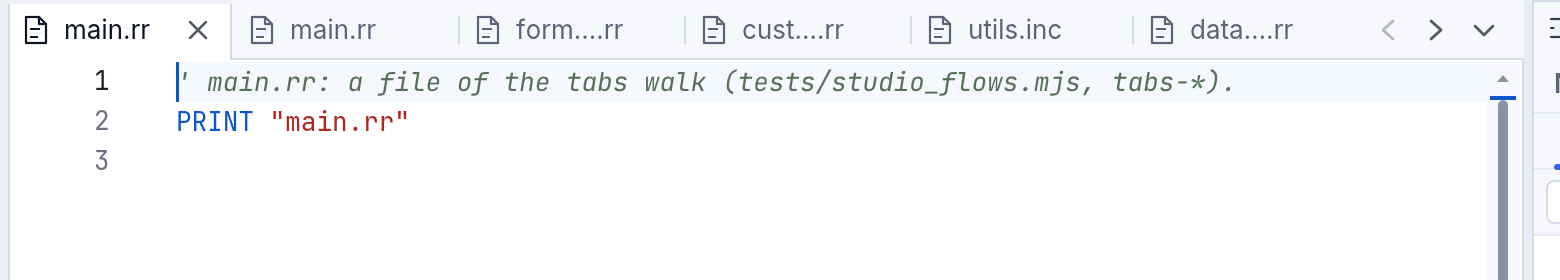
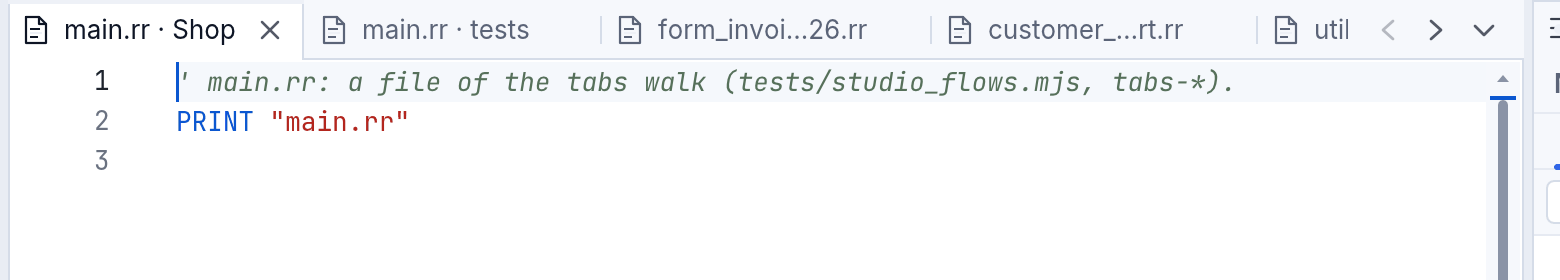
NOTIFY: document tabs keep eight characters of a cut name and the folder of a duplicate
The lead's three tab fixes. A tab's least width is now measured for each tab at the font it
is drawn in (no fixed 112 px): the icon, the first eight characters of the name, one "…", the
last two characters of the name with its extension, the close button; a name shorter than
that stays whole, and a name with its folder ("main.rr · tests") keeps the folder in its
least, so two files of one name always read apart. The cut never stands the "…" against the
extension's dot ("form_invoi…26.rr", not "form….rr"). Fewer tabs fit before the arrows.
A tab-strip squeeze takes a floor for each tab; the guide, the manual (EN and ES), the
changelog and the manual's pictures follow; a unit test cuts twenty-two names in a full
strip and checks the eight characters, the extension, the dot and the folders.

Changed region(s): [[0.0923, 0.0571, 0.5538, 0.1714], [0.5846, 0.0571, 0.8615, 0.1714], [0.1538, 0.2, 0.1846, 0.2286]]

diff --git a/crates/rapidr-value/src/dock/look.rs b/crates/rapidr-value/src/dock/look.rs
@@ -253,26 +253,99 @@ fn fitted(s: &str, font: &Font, w: i64) -> String {
     String::new()
 }
 
-/// A document tab's name in `room` pixels: whole; else a long name cut in its
-/// middle, so its start and its extension stay (a name `main.rr · tests`, the
-/// folder a second file of that name adds, keeps `main.rr` whole and cuts the
-/// folder after it: the tooltip and a screen reader have all of it).
+/// The least of a name's start a document tab keeps when it is cut (the guide:
+/// eight characters), and how many of the end of its base name stay before the
+/// extension, so the "…" never stands against the extension's dot.
+pub const TAB_HEAD: usize = 8;
+const TAB_TAIL: usize = 2;
+/// The longest folder a tab shows whole at its least.
+const TAB_FOLDER: usize = 8;
+
+/// A name's base and its extension (".rr"; none when there is none).
+fn split_ext(s: &str) -> (&str, &str) {
+    match s.rfind('.') {
+        Some(i) if i > 0 && s.len() - i <= 6 && !s[i..].contains(' ') => (&s[..i], &s[i..]),
+        _ => (s, ""),
+    }
+}
+
+/// `name` cut to `head` characters of its start, "…", the end of its base
+/// name and its extension: `form_inv…26.rr`. Whole when cutting would not
+/// shorten it.
+fn cut_name(name: &str, head: usize) -> String {
+    let (base, ext) = split_ext(name);
+    let chars: Vec<char> = base.chars().collect();
+    if chars.len() <= head + TAB_TAIL {
+        return name.to_string();
+    }
+    let start: String = chars[..head].iter().collect();
+    let end: String = chars[chars.len() - TAB_TAIL..].iter().collect();
+    format!("{}\u{2026}{end}{ext}", start.trim_end())
+}
+
+/// A folder as short as a tab may show it at its least.
+fn short_folder(folder: &str) -> String {
+    let chars: Vec<char> = folder.chars().collect();
+    if chars.len() <= TAB_FOLDER {
+        return folder.to_string();
+    }
+    format!("{}\u{2026}", chars[..TAB_FOLDER - 1].iter().collect::<String>().trim_end())
+}
+
+/// The least text a document tab shows (its tab is never narrower than this
+/// takes, measured): the first eight characters of the name, "…", the end of
+/// its name with the extension; for a name with its folder (`main.rr · tests`)
+/// the folder as well, so two files of one name always read apart.
+pub fn min_tab_title(title: &str) -> String {
+    match title.split_once(" \u{b7} ") {
+        Some((name, folder)) => format!("{} \u{b7} {}", cut_name(name, TAB_HEAD), short_folder(folder)),
+        None => cut_name(title, TAB_HEAD),
+    }
+}
+
+/// A document tab's name in `room` pixels: whole; else the name cut in its
+/// middle — its start (eight characters at least, with the room the tab's
+/// least width gives), "…", the end of its name and its extension. A name
+/// with its folder (`main.rr · tests`) keeps the name and as much of the
+/// folder as fits; the tooltip and a screen reader have all of it.
 pub fn tab_title(title: &str, font: &Font, room: i64) -> String {
     use crate::objects::text::text_size;
-    if let Some((name, folder)) = title.split_once(" \u{b7} ") {
-        let sep = " \u{b7} ";
-        let used = text_size(name, font).0 + text_size(sep, font).0;
-        if used + text_size("\u{2026}", font).0 + 6 <= room {
-            let f = fitted(folder, font, room - used);
-            if f.len() > '\u{2026}'.len_utf8() {
-                return format!("{name}{sep}{f}");
+    let width = |s: &str| text_size(s, font).0;
+    if width(title) <= room {
+        return title.to_string();
+    }
+    let sep = " \u{b7} ";
+    if let Some((name, folder)) = title.split_once(sep) {
+        // (the name as long as it can be with the folder at its shortest; else
+        // the folder cut as far as it must)
+        for floor in [width(&short_folder(folder)), width("\u{2026}") + 6] {
+            for head in (1..=name.chars().count()).rev() {
+                let n = cut_name(name, head);
+                let used = width(&n) + width(sep);
+                if used + floor <= room {
+                    let f = fitted(folder, font, room - used);
+                    if f.chars().count() > 1 {
+                        return format!("{n}{sep}{f}");
+                    }
+                }
             }
         }
-        if text_size(name, font).0 <= room {
-            return name.to_string();
+        return cut_name_fitting(name, font, room);
+    }
+    cut_name_fitting(title, font, room)
+}
+
+/// `name` cut as little as `room` allows (down to one character of its start).
+fn cut_name_fitting(name: &str, font: &Font, room: i64) -> String {
+    use crate::objects::text::text_size;
+    let (base, _) = split_ext(name);
+    for head in (1..=base.chars().count()).rev() {
+        let n = cut_name(name, head);
+        if text_size(&n, font).0 <= room {
+            return n;
         }
     }
-    crate::panels::notify::middle(title, font, room)
+    crate::panels::notify::middle(name, font, room)
 }
 
 /// The chrome's font: the dock manager's.

diff --git a/crates/rapidr-value/src/dock/geometry.rs b/crates/rapidr-value/src/dock/geometry.rs
@@ -28,10 +28,13 @@ pub const SWITCH_H: i64 = 22;
 pub const SWITCH_SPLIT: i64 = 30;
 /// The least a tab shrinks to when a strip is full.
 pub const MIN_TAB: i64 = 64;
-/// The least a document's tab is: its icon, at least eight characters of its
-/// name and its close button. Narrower and a name would be gone, so the
-/// strip scrolls instead (docs/design-guidelines.md, "Tabs").
-pub const MIN_DOC_TAB: i64 = 112;
+/// The least a document's tab is, measured for each (`doc_group`): its icon,
+/// at least eight characters of its name (the whole name when it is shorter),
+/// "…", the end of its name with the extension, and its close button — at the
+/// font it is drawn in. Narrower and a name would be gone, so the strip
+/// scrolls instead (docs/design-guidelines.md, "Tabs"). This is only the
+/// floor of a tab with no name: the width of the one icon and its close button.
+pub const MIN_DOC_TAB: i64 = 64;
 /// A document strip's scroll arrows and its list of open tabs: 24 square
 /// (WCAG 2.5.8).
 pub const TAB_BTN: i64 = 24;
@@ -278,6 +281,12 @@ fn tab_width(title: &str, font: &Font, icon: bool, close: bool, pad: i64) -> i64
 /// trimmed to one width (a short name is never cut for a long one's sake),
 /// none under `floor`.
 pub fn squeeze(want: &[i64], room: i64, give: i64, floor: i64) -> Vec<i64> {
+    squeeze_with(want, room, give, &vec![floor; want.len()])
+}
+
+/// [`squeeze`] with a floor of its own for each tab (a tab that has less to
+/// show can go narrower).
+pub fn squeeze_with(want: &[i64], room: i64, give: i64, floors: &[i64]) -> Vec<i64> {
     let n = want.len() as i64;
     let total: i64 = want.iter().sum();
     if n == 0 || total <= room {
@@ -288,18 +297,19 @@ pub fn squeeze(want: &[i64], room: i64, give: i64, floor: i64) -> Vec<i64> {
     if total - take * n <= room {
         return w;
     }
-    let kept = |x: i64, cap: i64| x.min(cap).max(floor.min(x));
-    let (mut lo, mut hi) = (floor, w.iter().copied().max().unwrap_or(floor));
+    let floor_of = |i: usize| floors.get(i).copied().unwrap_or(0);
+    let kept = |i: usize, x: i64, cap: i64| x.min(cap).max(floor_of(i).min(x));
+    let (mut lo, mut hi) = (floors.iter().copied().min().unwrap_or(0), w.iter().copied().max().unwrap_or(0));
     while lo < hi {
         let mid = (lo + hi + 1) / 2;
-        if w.iter().map(|&x| kept(x, mid)).sum::<i64>() <= room {
+        if w.iter().enumerate().map(|(i, &x)| kept(i, x, mid)).sum::<i64>() <= room {
             lo = mid;
         } else {
             hi = mid - 1;
         }
     }
-    for x in &mut w {
-        *x = kept(*x, lo);
+    for (i, x) in w.iter_mut().enumerate() {
+        *x = kept(i, *x, lo);
     }
     w
 }
@@ -493,12 +503,18 @@ pub fn doc_group(docs: &[String], active: usize, rect: Rect, path: Vec<usize>, t
     let n = docs.len() as i64;
     let room = (right - gx).max(0);
     let want: Vec<i64> = docs.iter().map(|p| tab_width(&titles.title(p), font, !titles.icon(p).is_empty(), true, 12).clamp(MIN_DOC_TAB, 260)).collect();
+    // (each tab's least: its name cut to what the guide keeps, measured)
+    let floors: Vec<i64> = docs
+        .iter()
+        .zip(&want)
+        .map(|(p, w)| tab_width(&super::look::min_tab_title(&titles.title(p)), font, !titles.icon(p).is_empty(), true, 12).max(MIN_DOC_TAB).min(*w))
+        .collect();
     // (the list of open tabs at the right end, from two tabs: 24 square and
     // a gap; the arrows left of it once the tabs don't all fit)
     let list_room = if docs.len() >= 2 { TAB_BTN + 6 } else { 0 };
     // (too many to fit — each tab's pixel of gap counted: the padding goes
     // first, then the widest tabs are trimmed alike, none under MIN_DOC_TAB)
-    let layout_for = |vw: i64| squeeze(&want, vw - n, DOC_GIVE, MIN_DOC_TAB);
+    let layout_for = |vw: i64| squeeze_with(&want, vw - n, DOC_GIVE, &floors);
     let mut vw = room - list_room;
     let mut widths = layout_for(vw);
     let overflow = widths.iter().sum::<i64>() + n > vw;

diff --git a/crates/rapidr-value/src/dock/tab_tests.rs b/crates/rapidr-value/src/dock/tab_tests.rs
@@ -1,5 +1,6 @@
 //! Document tabs keep their names (lane NOTIFY; docs/design-guidelines.md,
-//! "Tabs"): never narrower than 112 pixels, a long name cut in its middle,
+//! "Tabs"): never narrower than their least (eight characters of the name and
+//! its end, measured), a long name cut in its middle,
 //! a strip that scrolls with arrows, the shown tab always in view, a list
 //! of every open tab.
 
@@ -41,7 +42,7 @@ fn a_few_tabs_fit_with_their_names_and_the_list_button() {
 }
 
 #[test]
-fn seventeen_tabs_scroll_and_none_is_narrower_than_112() {
+fn seventeen_tabs_scroll_and_none_is_narrower_than_the_floor() {
     let mut m = many(17);
     let g = m.geometry().clone();
     let gr = &g.documents.as_ref().unwrap().groups[0];
@@ -115,4 +116,50 @@ fn a_long_name_is_cut_in_the_middle_and_keeps_its_extension() {
     let cut = crate::panels::notify::middle("form_invoices_and_orders_2026.rr", &f, 60);
     assert!(cut.contains('…') && cut.ends_with(".rr") && cut.starts_with("form"), "{cut}");
     assert_eq!(crate::panels::notify::middle("main.rr", &f, 200), "main.rr");
+}
+
+#[test]
+fn a_cut_name_keeps_eight_characters_the_end_of_its_name_and_a_folder_for_a_duplicate() {
+    use super::look::{min_tab_title, tab_title};
+    let font = Font::default();
+    let names = [
+        "main.rr \u{b7} Shop",
+        "main.rr \u{b7} tests",
+        "form_invoices_and_orders_2026.rr",
+        "customer_statements_report.rr",
+        "utils.inc",
+        "database.rr",
+        "invoice_totals.rr",
+        "stock_levels_by_warehouse.rr",
+        "window_layout_and_menus.rr",
+        "data_import_wizard.rr",
+        "notes.txt",
+    ];
+    let mut m = Manager::default();
+    m.resize((1280, 720), &font);
+    m.layout.mode = DocumentMode::Tabs;
+    m.add_pane("Explorer", "Explorer", "left", "explorer");
+    for (i, n) in names.iter().chain(names.iter()).enumerate() {
+        m.add_pane(&format!("Doc{i}"), n, "documents", "code");
+    }
+    m.layout.select("doc0");
+    m.touch();
+    let g = m.geometry().clone();
+    let gr = &g.documents.as_ref().unwrap().groups[0];
+    assert!(gr.arrows.is_some(), "the tabs don't all fit: they scroll");
+    for (t, title) in gr.tabs.iter().zip(names.iter().chain(names.iter())) {
+        let room = t.text.1 - t.text.0;
+        let shown = tab_title(title, &font, room);
+        assert!(!shown.contains("\u{2026}.") && !shown.contains("...."), "the ellipsis stands against a dot: {shown} ({title})");
+        if title.contains(" \u{b7} ") {
+            assert!(shown.contains(" \u{b7} "), "a duplicate's folder is kept: {shown} ({title}), room {room}");
+        } else if shown != *title {
+            let head = shown.split('\u{2026}').next().unwrap().chars().count();
+            assert!(head >= 8, "a cut name keeps eight characters: {shown} ({title}), room {room}");
+            assert!(shown.ends_with(&title[title.rfind('.').unwrap()..]), "its extension stays: {shown}");
+        }
+        // (the least text is what the tab's least width was measured for)
+        let least = min_tab_title(title);
+        assert!(shown.chars().count() >= least.chars().count().min(title.chars().count()), "{shown} shorter than {least}");
+    }
 }

diff --git a/CHANGELOG.md b/CHANGELOG.md
@@ -10,7 +10,7 @@ project uses [Semantic Versioning](https://semver.org/). Planned work lives in
 ### Added
 - **Notifications: `RNotify`, `RNotifyBar` and a Notifications section in the design guide** ([the manual](docs/manual/notifications.md), [docs/design-guidelines.md](docs/design-guidelines.md#notifications), [docs/research/notifications.md](docs/research/notifications.md)): three levels, each its own size — a **toast** (something happened, nothing to decide: a card in a corner, 360 px wide, an icon, one or two lines, up to two action links, a close button; three at most, the same `Key` replaces the toast instead of piling up, it stays 3 s and 80 ms a character, 2 s more with an action, 5 to 20 s, an error until closed, and the time stands still while the mouse or the keyboard is on it; a screen reader says it once, politely), a **question's strip** (one slim line across the top of what it asks about, compact buttons at the right end, announced once, assertively) and the **history** behind a bell (every message with its time and its action again, an action that can no longer work greyed with the reason). `RNotify` (`Show`, `Update`, `Close`, `Press`, `Retire`, `SetArea`, `ShowHistory`, `UnseenCount`, `Text(i)` / `Kind(i)` / `HistoryText(i)` for RAI and AI apps, `OnAction`, `OnClosed`, `OnUnseenChange`; `Position`, `MaxVisible`, `Timeout`, `TimeScale`, `Margin`) is a see-through overlay that takes the mouse only where a toast is; `RNotifyBar` (`Ask`, `OnChoose`, `OnEscape`) docks like a panel. Both are drawn by the UI kernel in the program's own look, on the desktop and the web, in light, dark and high contrast. New example `examples/gui/notify.rr`; `RCommandPalette.ShowAt`, `RDockManager.DocumentLeft` / `DocumentTop` / `DocumentWidth` / `DocumentHeight`, `OnDocumentList` and the `np…` position constants.
 - **RapidR Studio says things the right size** (NOTIFY): the huge card that said *5 files were updated outside Studio*, with its big buttons, is gone. A file reloaded from disk is one toast naming the files — *12 files were reloaded: greet.rr, main.rr, part1.rr +9* — with **Show** (a searchable list); a file changed on disk under unsaved edits is a one-line strip on that editor only — *main.rr changed on disk while you were editing it.* with Compare, Use Disk Version and Keep Mine —, and the status bar no longer repeats either. The **bell** at the status bar's right end counts what you have not looked at and opens the history (Ctrl+Shift+N, View > Notifications); Tools > Settings > General > **Notifications stay** makes toasts stay as long as their words need, longer, or until you close them; F6 reaches the strip and the toasts, Escape closes one. The same move for the other bars: **deleting a chat** says so in a toast with Undo (greyed in the history once another chat is deleted), **the assistant's new program** is a toast with Run It and Undo (Run Anyway and Ask It to Fix with errors left; the keyboard is on its first button, so Enter still runs it), and **the crash report offer** is one slim line under the tool bar, an RNotifyBar, instead of a card 84 px tall; the banner's *What Did It Do?* is the chat's own cards.
-- **Document tabs keep their names** (NOTIFY): never icons only — at least 112 px wide, a long name cut in its middle so its start and its extension stay (*form….rr*), two files named alike show their folders (*main.rr · tests*); when the tabs don't all fit the strip scrolls (two arrows, the wheel, the shown tab always in view) and **Open Tabs**, at its right end, lists every open file in a searchable card.
+- **Document tabs keep their names** (NOTIFY): never icons only — a long name cut in its middle so its first eight characters and its extension stay (*form_inv…26.rr*; a tab is never narrower than that takes, measured), two files named alike show their folders (*main.rr · tests*); when the tabs don't all fit the strip scrolls (two arrows, the wheel, the shown tab always in view) and **Open Tabs**, at its right end, lists every open file in a searchable card.
 - **Right-click menus in the rest of RapidR Studio** (CONTEXT-MENUS 2b, [the manual](docs/manual/right-click-menus.md)): a problem (Go to Problem, Quick Fix..., Explain This Problem, Copy All Problems, Ask RAI), a line of output (**Go to main.rr, Line 12** when it names a place, Copy, Copy Line, Copy All, Select All, Wrap Long Lines, Clear), Immediate, Variables and Watch while paused (Set Value..., Copy Value, Copy Expression, View Text..., Add / Remove Watch), Call Stack (Go to This Call), Breakpoints (Go to, Edit Condition..., Disable / Enable, Remove, Delete All), Help (Back, Forward, Copy, Select All, Open in the Browser; a code example's Try It, Copy Code, Insert at the Cursor), the status bar (Copy Message; the project's Reveal, Project Options..., Versions; Ln, Col's Go to Line...; AI apps; School Lock), a pane's tab (Close Pane, Float / Dock, Reset Layout), a recent project on the Welcome page (Open, Copy Path, Reveal, Remove from Recent) and the Toolbox (Add to the Form, Help: RButton, Open an Example, Ask RAI How to Use It; a group's Collapse All, Expand All) — all by the mouse and by Shift+F10 / the Menu key, from the one command table. The Output, Variables, Watch, Call Stack and Breakpoints panes' own menus are gone: one implementation. Also: the Project tree's **Compare With ▸** (the disk's version, the last version, another file) and **Delete File...** (asked first, to the system's Trash, never the main file or a file outside the project's folder); **on a problem in the code, its fix first** ("Change to Caption", bold), then Quick Fix... and Explain This Problem; **Help: RButton (F1)** in the designer's and the Toolbox's menus; the Assistant's chats **grouped by Today / Yesterday / Earlier**, **renamed in the row itself** (the rename strip is gone) and **Copy as Markdown**; **a greyed item says why in a tooltip** beside the menu (screen readers read it already).
 - **`MOVETOTRASH(Path$)`** (RapidR's): a file or folder to the system's Trash — macOS' Trash, Windows' Recycle Bin, the desktop's Trash on Linux (the freedesktop.org specification) —, where it can be put back; True when it went. The same in `rapidr run`, interpreted and native builds; a browser has no Trash and says so with a run-time error. No new dependency. Example [examples/basics/trash.rr](examples/basics/trash.rr), [the manual](docs/manual/language.md#to-the-trash-movetotrash).
 - **Components for these menus** (RapidR's, additive): `RTreeView.ContextIndex` (a right click doesn't select), `RListBox.Heading(i)` (heading rows: never selected, skipped by the keys, a screen reader's heading), `RListBox.EditItem` / `OnEdited` (an item's editor in place), `RToolbox.ContextKind`, `RDockManager.ContextPane` and `DockBack`, `ROutputConsole.PlaceFile` / `PlaceLine`, `RMarkdownView.ContextCode`, `RCodeEditor.ProblemAt` / `FixAt` / `ApplyFixAt`; desktop and web, in the registry with their Spanish docs.

diff --git a/docs/design-guidelines.md b/docs/design-guidelines.md
@@ -202,8 +202,8 @@ Where Studio's messages go: files reloaded, copied, a build finished, a version 
 - **Selected tab:** the accent underline (2 px) and the text in the normal colour; the others dim. No box around a tab's text: the keyboard focus ring goes around the whole tab.
 - **A pane's tabs, when narrow:** a tab strip that can't fit every name shows icons only, each with its name as tooltip and `AccessibleName` — never a cut name ("P…"). The panes' icons differ from each other, so an icon tells which pane it is.
 - **Document tabs keep their names.** A document's icon is the same for every file of a kind (every `.rr` file has the same page), so an icon alone tells nothing: a document tab is **never icons only**.
-  - **Width:** as wide as its name needs (up to 260 px) and **never narrower than 112 px** (the 16-px icon, 6, at least 8 characters of the name, the 20-px close button, and the padding).
-  - **A long name** is cut in the **middle**: "form….rr", so the beginning and the extension stay; the tooltip and the accessible name have it whole. Two open files with the same name show their folder after it ("main.rr · tests").
+  - **Width:** as wide as its name needs (up to 260 px) and **never narrower than its least, measured at the font it is drawn in**: the 16-px icon, 6, the first 8 characters of the name, "…", the end of the name with its extension, the 20-px close button and the padding (a name shorter than that stays whole). A name with its folder (`main.rr · tests`) keeps the folder in its least too, so two files of one name always read apart. Fewer tabs fit before the arrows, which is fine.
+  - **A long name** is cut in the **middle**: "form_inv…26.rr" (the first 8 characters, one "…", the last two characters of the name and the extension: the "…" never stands against the extension's dot); the tooltip and the accessible name have it whole. Two open files with the same name show their folder after it ("main.rr · tests").
   - **When the tabs don't fit:** the strip **scrolls**. Two 24-px arrow buttons at the right end of the strip (before the view switch) move it a tab at a time; the mouse wheel and a two-finger swipe over the strip scroll it; the shown tab is always scrolled into view (Ctrl+Tab, a click on a name in the list, opening a file). A tab half seen at an edge is simply clipped by the strip, its name is never replaced by an icon.
   - **All open tabs:** a 24-px list button at the right end ("Open tabs", a chevron) opens a card with **every** open document and a search field (type to filter, the arrows to move, Enter to open, Esc to close): each row its icon, its name and, dim, its folder; a dot marks one with unsaved changes. It is the way to a tab that has scrolled out of sight.
   - The shown tab, the close button, the unsaved dot and the middle click to close do not change.
@@ -281,4 +281,4 @@ Measured against this guide (2026-10-29); `tools/check_design.py --list` lists t
 12. Tabs have icons and names (a pane's tabs icons only when narrow, never a cut name; a document's tab never icons only); a dialog fits 1280 × 720 with scrolling content and pinned buttons.
 13. Scrolled, resized and dragged: smooth, no flicker, no jumping sizes.
 14. A message the person didn't ask for is a toast (something happened), a strip on its editor (a choice) or a dialog (a consequence) — never a card across the window or a message box; at most three toasts, merged by key, polite for screen readers, never a secret, always in the history ([Notifications](#notifications)).
-15. Document tabs show their names (the middle of a long one cut, 112 px at least), scroll with arrows, and have the list of all open tabs.
+15. Document tabs show their names (the middle of a long one cut, 8 characters of its start at least), scroll with arrows, and have the list of all open tabs.

diff --git a/docs/manual/es/notifications.md b/docs/manual/es/notifications.md
@@ -1,4 +1,4 @@
-<!-- translated-from: notifications.md 2d3a7c50ea3955be -->
+<!-- translated-from: notifications.md 4adf3555f8cbb673 -->
 # Notificaciones: mensajes que aparecen y preguntas que esperan
 
 Un programa tiene tres maneras de decirle algo a quien lo usa, y cada una tiene su propio tamaño.
@@ -45,7 +45,7 @@ Cada uno está en el nivel que sus palabras necesitan, y ninguno se repite en ot
 
 ### Pestañas que conservan su nombre
 
-Cada documento abierto es una pestaña con su icono **y su nombre**: nunca más estrecha que 112 píxeles, un nombre largo cortado por el medio para que queden su comienzo y su extensión (*form….rr*), y dos archivos con el mismo nombre muestran sus carpetas (*main.rr · tests*). Cuando las pestañas no caben todas, la franja **se desplaza**: dos flechas en su extremo derecho (o la rueda del ratón, o un deslizamiento con dos dedos), con la pestaña mostrada siempre a la vista. El botón del final, **Pestañas abiertas**, lista todos los documentos abiertos en una tarjeta con búsqueda: escribe para filtrar, **Intro** muestra la pestaña, un punto marca un archivo con cambios sin guardar.
+Cada documento abierto es una pestaña con su icono **y su nombre**: un nombre largo cortado por el medio para que queden sus primeros ocho caracteres y su extensión (*form_inv…26.rr*), una pestaña nunca más estrecha que eso, y dos archivos con el mismo nombre muestran sus carpetas (*main.rr · tests*). Cuando las pestañas no caben todas, la franja **se desplaza**: dos flechas en su extremo derecho (o la rueda del ratón, o un deslizamiento con dos dedos), con la pestaña mostrada siempre a la vista. El botón del final, **Pestañas abiertas**, lista todos los documentos abiertos en una tarjeta con búsqueda: escribe para filtrar, **Intro** muestra la pestaña, un punto marca un archivo con cambios sin guardar.
 
 ![Diecisiete archivos abiertos: cada pestaña con su nombre, las flechas y el botón de la lista en el extremo derecho](../images/notifications/tabs.png)
 

diff --git a/docs/manual/notifications.md b/docs/manual/notifications.md
@@ -44,7 +44,7 @@ Each one is at the level its words need, and none repeats itself in another plac
 
 ### Tabs that keep their names
 
-Every open document is a tab with its icon **and its name**: never narrower than 112 pixels, a long name cut in its middle so its start and its extension stay (*form….rr*), and two files with the same name show their folders (*main.rr · tests*). When the tabs don't all fit, the strip **scrolls**: two arrows at its right end (or the mouse wheel, or a two-finger swipe), the shown tab always in view. The button at the very end, **Open Tabs**, lists every open document in a searchable card: type to narrow it, **Enter** shows the tab, a dot marks a file with unsaved changes.
+Every open document is a tab with its icon **and its name**: a long name cut in its middle so its first eight characters and its extension stay (*form_inv…26.rr*), a tab never narrower than that takes, and two files with the same name show their folders (*main.rr · tests*). When the tabs don't all fit, the strip **scrolls**: two arrows at its right end (or the mouse wheel, or a two-finger swipe), the shown tab always in view. The button at the very end, **Open Tabs**, lists every open document in a searchable card: type to narrow it, **Enter** shows the tab, a dot marks a file with unsaved changes.
 
 ![Seventeen open files: every tab with its name, the arrows and the list button at the right end](images/notifications/tabs.png)
 
